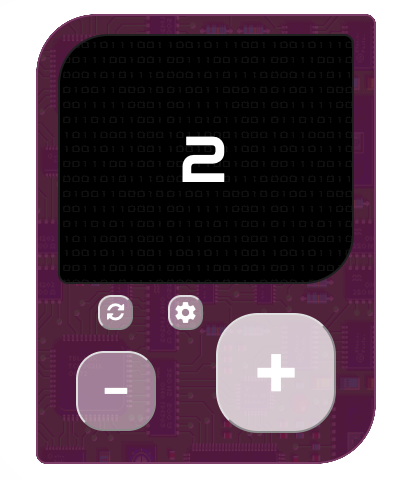
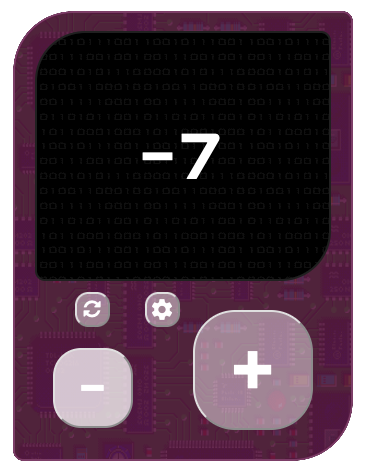
script.js corretto

Changed region(s): [[0.0301, 0.0, 0.9617, 0.983], [0.5109, 0.6255, 0.8716, 0.9234], [0.3907, 0.2681, 0.6011, 0.3872]]

diff --git a/script.js b/script.js
@@ -1,36 +1,61 @@
-//  impostazioni base counter
+//  creazione elementi DOM
 
-let decriment = document.getElementById("decriment-button");
-let incriment = document.getElementById("incriment-button");
-let restart = document.getElementById("restart-button")
-let counterNumber = document.querySelector(".counter-number");
+function createElement(tagname, id, text) {
+  element = document.createElement(tagname);
+  element.id = id;
+  element.innerHTML = text;
+  return element;
+}
 
+
+//  definizione variabili di elementi esistenti
+
+const mainContainer = document.getElementById("main-container");
+const display = document.getElementById("display");
+const restart = document.getElementById("restart-button");
+const settingsButton = document.getElementById("settings-button");
+const colorMenu = document.getElementById("color-menu");
+
+
+//  definizione variabili di elementi creati dinamicamente
+
+const primaryButtonsSection = createElement("section", "primary-buttons-section", "");
+mainContainer.append(primaryButtonsSection);
+
+const decrement = createElement("button", "decrement-button", "-");
+primaryButtonsSection.append(decrement);
+
+const increment = createElement("button", "increment-button", "+");
+primaryButtonsSection.append(increment);
+
+const counterNumber = createElement("div", "counter-number", "0");
+display.append(counterNumber);
+
+
+//  funzioni pulsanti + / - / restart
+  
 let count = 0;
 
-incriment.addEventListener("click", () => {
-  count++;
-  counterNumber.innerText = count;
-});
+decrement.onclick = () => {
+  count -=1;
+  counterNumber.innerHTML = count;
+};
 
-decriment.addEventListener("click", () => {
-  count--;
-  if (count < 0) {
-    count = 0;
-  }
-  counterNumber.innerText = count;
-});
-
-restart.addEventListener("click", () => {
+restart.onclick = () => {
   count = 0;
   counterNumber.innerHTML = count;
-});
+};
 
+increment.onclick = () => {
+  count += 1;
+  counterNumber.innerHTML = count;
+};
 
 
 //  funzione cambio colore
 
-document.querySelector(".settings-button").onclick = () => {
-  document.querySelector(".color-switcher").classList.toggle("active");
+settingsButton.onclick = () => {
+  colorMenu.style.display = (colorMenu.style.display == "none") ? "block" : "none";
 };
 
 let themeButton = document.querySelectorAll(".theme-button");

diff --git a/index.html b/index.html
@@ -20,15 +20,15 @@
   <title>Counter</title>
 </head>
 <body>
-  <main class="main-container disable-dbl-tap-zoom">
+  <main id="main-container" class="disable-dbl-tap-zoom">
 
     <!-- display -->
-    <section class="display">
+    <section id="display">
 
       <!-- theme color menu -->
-      <div class="color-switcher">
+      <div id="color-menu" style="display: none;">
         <h3>Change color</h3>
-        <div class="theme-buttons-container">
+        <div id="theme-buttons-container">
           <button class="theme-button" data-color="#641e4c" style="background: #641e4c;"></button>
           <button class="theme-button" data-color="#1e6427" style="background: #1e6427;"></button>
           <button class="theme-button" data-color="#1e4764" style="background: #1e4764;"></button>
@@ -37,22 +37,20 @@
         </div>
       </div>
 
-      <!-- number -->
-      <div class="counter-number">0</div>
+      <!-- counter number div -->
+      <!-- (created from script.js) -->
     </section>
 
-    <!-- buttons -->
-    <section class="secondary-buttons-section">
+    <!-- secondary buttons section -->
+    <section id="secondary-buttons-section">
       <button id="restart-button"><i class="fa fa-refresh" style="color: white; font-size: 20px"></i></button>
-    <button class="settings-button">
-      <i class="material-icons" style="font-size: 25px; color: white">settings</i>
-    </button>
-    </section>
-    <section class="primary-buttons-section">
-      <button id="decriment-button">-</button>
-      <button id="incriment-button">+</button>
+      <button id="settings-button">
+        <i class="material-icons" style="font-size: 25px; color: white">settings</i>
+      </button>
     </section>
 
+    <!-- +/- (primary) buttons section -->
+    <!-- (created from script.js) -->
   </main>
 
   <p>Counter App by <a href="https://saracairo.github.io" target="_blank" rel="noopener noreferrer">Sara Cairo</a></p>

diff --git a/style.css b/style.css
@@ -43,7 +43,7 @@ p > a:hover {
   color: rgb(47, 255, 123);
 }
 
-.main-container {
+#main-container {
   position: relative;
   display: flex;
   flex-direction: column;
@@ -57,7 +57,7 @@ p > a:hover {
   border: 2px solid rgba(255, 222, 253, 0.223);
   border-radius: 60px 10px;
 }
-.main-container:before {
+#main-container:before {
   content: "";
   width: 100%;
   height: 100%;
@@ -68,7 +68,7 @@ p > a:hover {
   position: absolute;
 }
 
-.display {
+#display {
   margin-top: -3px;
   width: 100%;
   height: 250px;
@@ -90,9 +90,8 @@ p > a:hover {
 
 /* -- color switcher menu -- */
 
-.color-switcher {
+#color-menu {
   position: absolute;
-  display: none;
   bottom: 0px;
   width: 100%;
   height: 100px;
@@ -102,10 +101,7 @@ p > a:hover {
   border-radius: 0 5px 20px 5px;
   z-index: 1000;
 }
-.color-switcher.active {
-  display: block;
-}
-.color-switcher > h3 {
+#color-menu > h3 {
   color: var(--main-color);
   text-transform: uppercase;
   letter-spacing: .2rem;
@@ -114,7 +110,7 @@ p > a:hover {
   text-align: center;
 }
 
-.theme-buttons-container {
+#theme-buttons-container {
   display: flex;
   flex-wrap: wrap;
   justify-content: center;
@@ -146,7 +142,7 @@ button:hover {
 }
 
 
-.secondary-buttons-section {
+#secondary-buttons-section {
   width: 100%;
   display: flex;
   justify-content: flex-start;
@@ -160,17 +156,17 @@ button:hover {
   height: 35px;
 }
 
-.settings-button {
+#settings-button {
   cursor: pointer;
   width: 35px;
   height: 35px;
 }
-.settings-button > i {
+#settings-button > i {
   margin-top: 2.5px;
 }
 
 
-.primary-buttons-section {
+#primary-buttons-section {
   width: 100%;
   height: 100px;
   display: flex;
@@ -179,13 +175,13 @@ button:hover {
   gap: 60px;
 }
 
-#decriment-button {
+#decrement-button {
   width: 80px;
   height: 80px;
   font-size: 3rem;
 }
 
-#incriment-button {
+#increment-button {
   width: 120px;
   height: 120px;
   font-size: 5rem;

diff --git a/README.md b/README.md
@@ -58,11 +58,11 @@ A simple counter app I built for practice as a student, shaped like a retrogamin
 
 ## Usage
 Some examples of how this app can be used. <br />
- - Basic functions: _increment_, _decriment_ and _reset_ the counter. <br />
+ - Basic functions: _increment_, _decriment_ (also in negative numbers) and _reset_ the counter. <br />
  <br />
  <img src="img/screenshot/counter-4.png" alt="app-screenshot" width="160">
- <img src="img/screenshot/counter-5.png" alt="app-screenshot" width="155">
  <img src="img/screenshot/counter-6.png" alt="app-screenshot" width="157">
+ <img src="img/screenshot/counter-5.png" alt="app-screenshot" width="145">
  <br /><br />
  
  - Additional function: _choose the color_ you like for the console.
